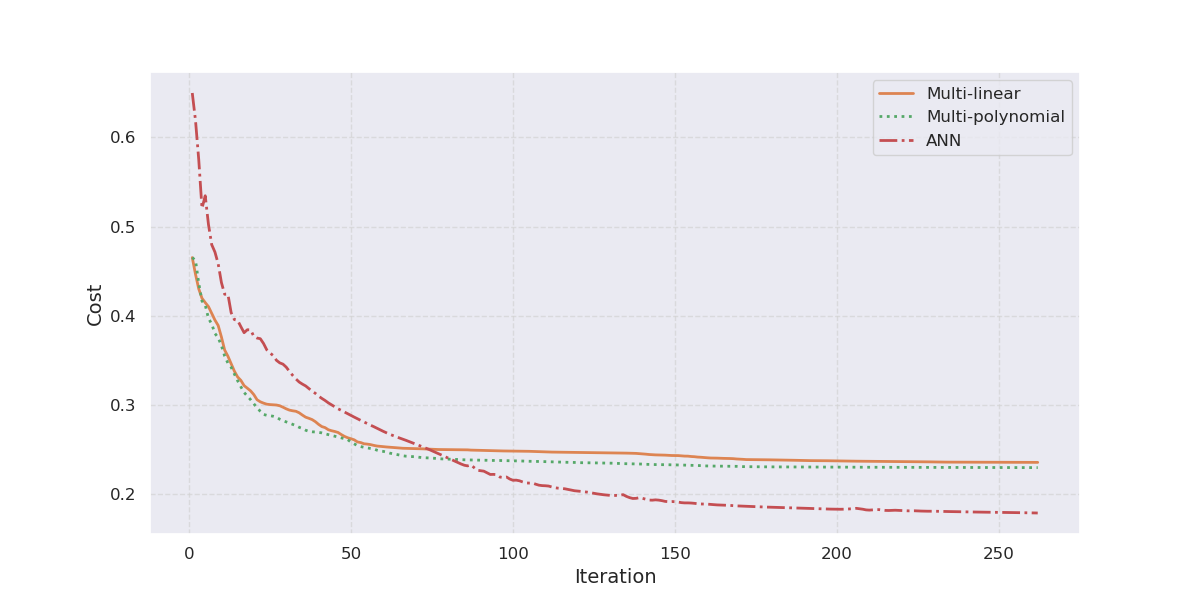
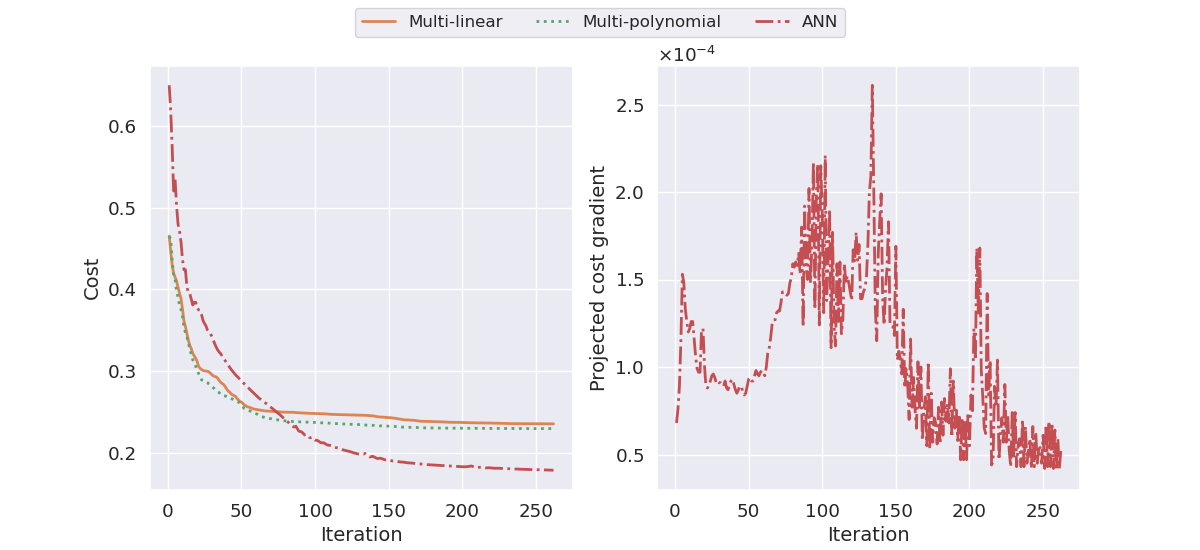
ENC: add projected gradient curves

diff --git a/run_result-analysis.py b/run_result-analysis.py
@@ -340,7 +340,9 @@ def param_map(
     plt.savefig(os.path.join(args.output, figname + ".png"))
 
 
-def cost_descent(args, niter=250, figsize=(12, 6), figname="cost_descent"):
+def cost_descent(args, niter=250, figsize=(12, 5.5), figname="cost_descent"):
+    # only available for Med-Est case
+
     print("</> Plotting cost descent...")
 
     x = range(1, niter + 1)
@@ -354,7 +356,7 @@ def cost_descent(args, niter=250, figsize=(12, 6), figname="cost_descent"):
     linestyles = ["-", ":", "-."]
     line_kwargs = {"linewidth": 2}
 
-    fig, ax = plt.subplots(figsize=figsize)
+    fig, axes = plt.subplots(figsize=figsize, nrows=1, ncols=2)
 
     for i, mtd in enumerate(args.filename_method[1:]):
         if mtd == "ann":
@@ -368,7 +370,7 @@ def cost_descent(args, niter=250, figsize=(12, 6), figname="cost_descent"):
                 usecols=(8, 12),
             )
 
-        ax.plot(
+        axes[0].plot(
             x,
             J[: len(x), 0],
             label=args.methods[i + 1],  # without uniform method
@@ -377,18 +379,32 @@ def cost_descent(args, niter=250, figsize=(12, 6), figname="cost_descent"):
             **line_kwargs,
         )
 
-    # Set x and y axis labels, title and legend
-    ax.set_xlabel("Iteration", fontsize=14)
-    ax.set_ylabel("Cost", fontsize=14)
-    # ax.set_title("Multisites Optimization", fontsize=16, fontweight="bold")
-    ax.legend(fontsize=12)
+        if mtd=="ann":
 
-    # Customize tick labels and grid lines
-    ax.tick_params(axis="both", which="major", labelsize=12, width=2, length=6)
-    ax.tick_params(axis="both", which="minor", labelsize=10, width=1, length=4)
-    ax.grid(
-        True, which="major", axis="both", linestyle="--", color="lightgray", alpha=0.7
-    )
+            axes[1].plot(
+                x,
+                J[: len(x), 1],
+                label=args.methods[i + 1],  # without uniform method
+                color=colors[i],
+                linestyle=linestyles[i],
+                **line_kwargs,
+            )
+
+            from matplotlib import ticker
+            formatter = ticker.ScalarFormatter(useMathText=True)
+            formatter.set_scientific(True) 
+            formatter.set_powerlimits((-1,1)) 
+            axes[1].yaxis.set_major_formatter(formatter)
+
+    # Set x and y axis labels, title and legend
+    axes[0].set_xlabel("Iteration", fontsize=14)
+    axes[0].set_ylabel("Cost", fontsize=14)
+
+    axes[1].set_xlabel("Iteration", fontsize=14)
+    axes[1].set_ylabel("Projected cost gradient", fontsize=14)
+
+    handles, labels = axes[0].get_legend_handles_labels()
+    fig.legend(handles, labels, loc="upper center", ncol=3, fontsize=12)
 
     plt.savefig(os.path.join(args.output, figname + ".png"))
 
@@ -731,19 +747,19 @@ if __name__ == "__main__":
 
     args = initialize_args()
 
-    # cost_descent(args, niter=262)
+    cost_descent(args, niter=262)  # only available for Med-Est case
 
-    hydrograph(args, "cal", "hydrograph_cal")
-    hydrograph(args, "val", "hydrograph_val")
+    # hydrograph(args, "cal", "hydrograph_cal")
+    # hydrograph(args, "val", "hydrograph_val")
 
-    compare_cost(args)
+    # compare_cost(args)
 
-    compare_signature_hist(args)
+    # compare_signature_hist(args)
 
-    param_map(args)
+    # param_map(args)
 
-    desc_map(args)
+    # desc_map(args)
 
-    linear_cov(args)
+    # linear_cov(args)
 
-    signatures_val(args)
+    # signatures_val(args)
